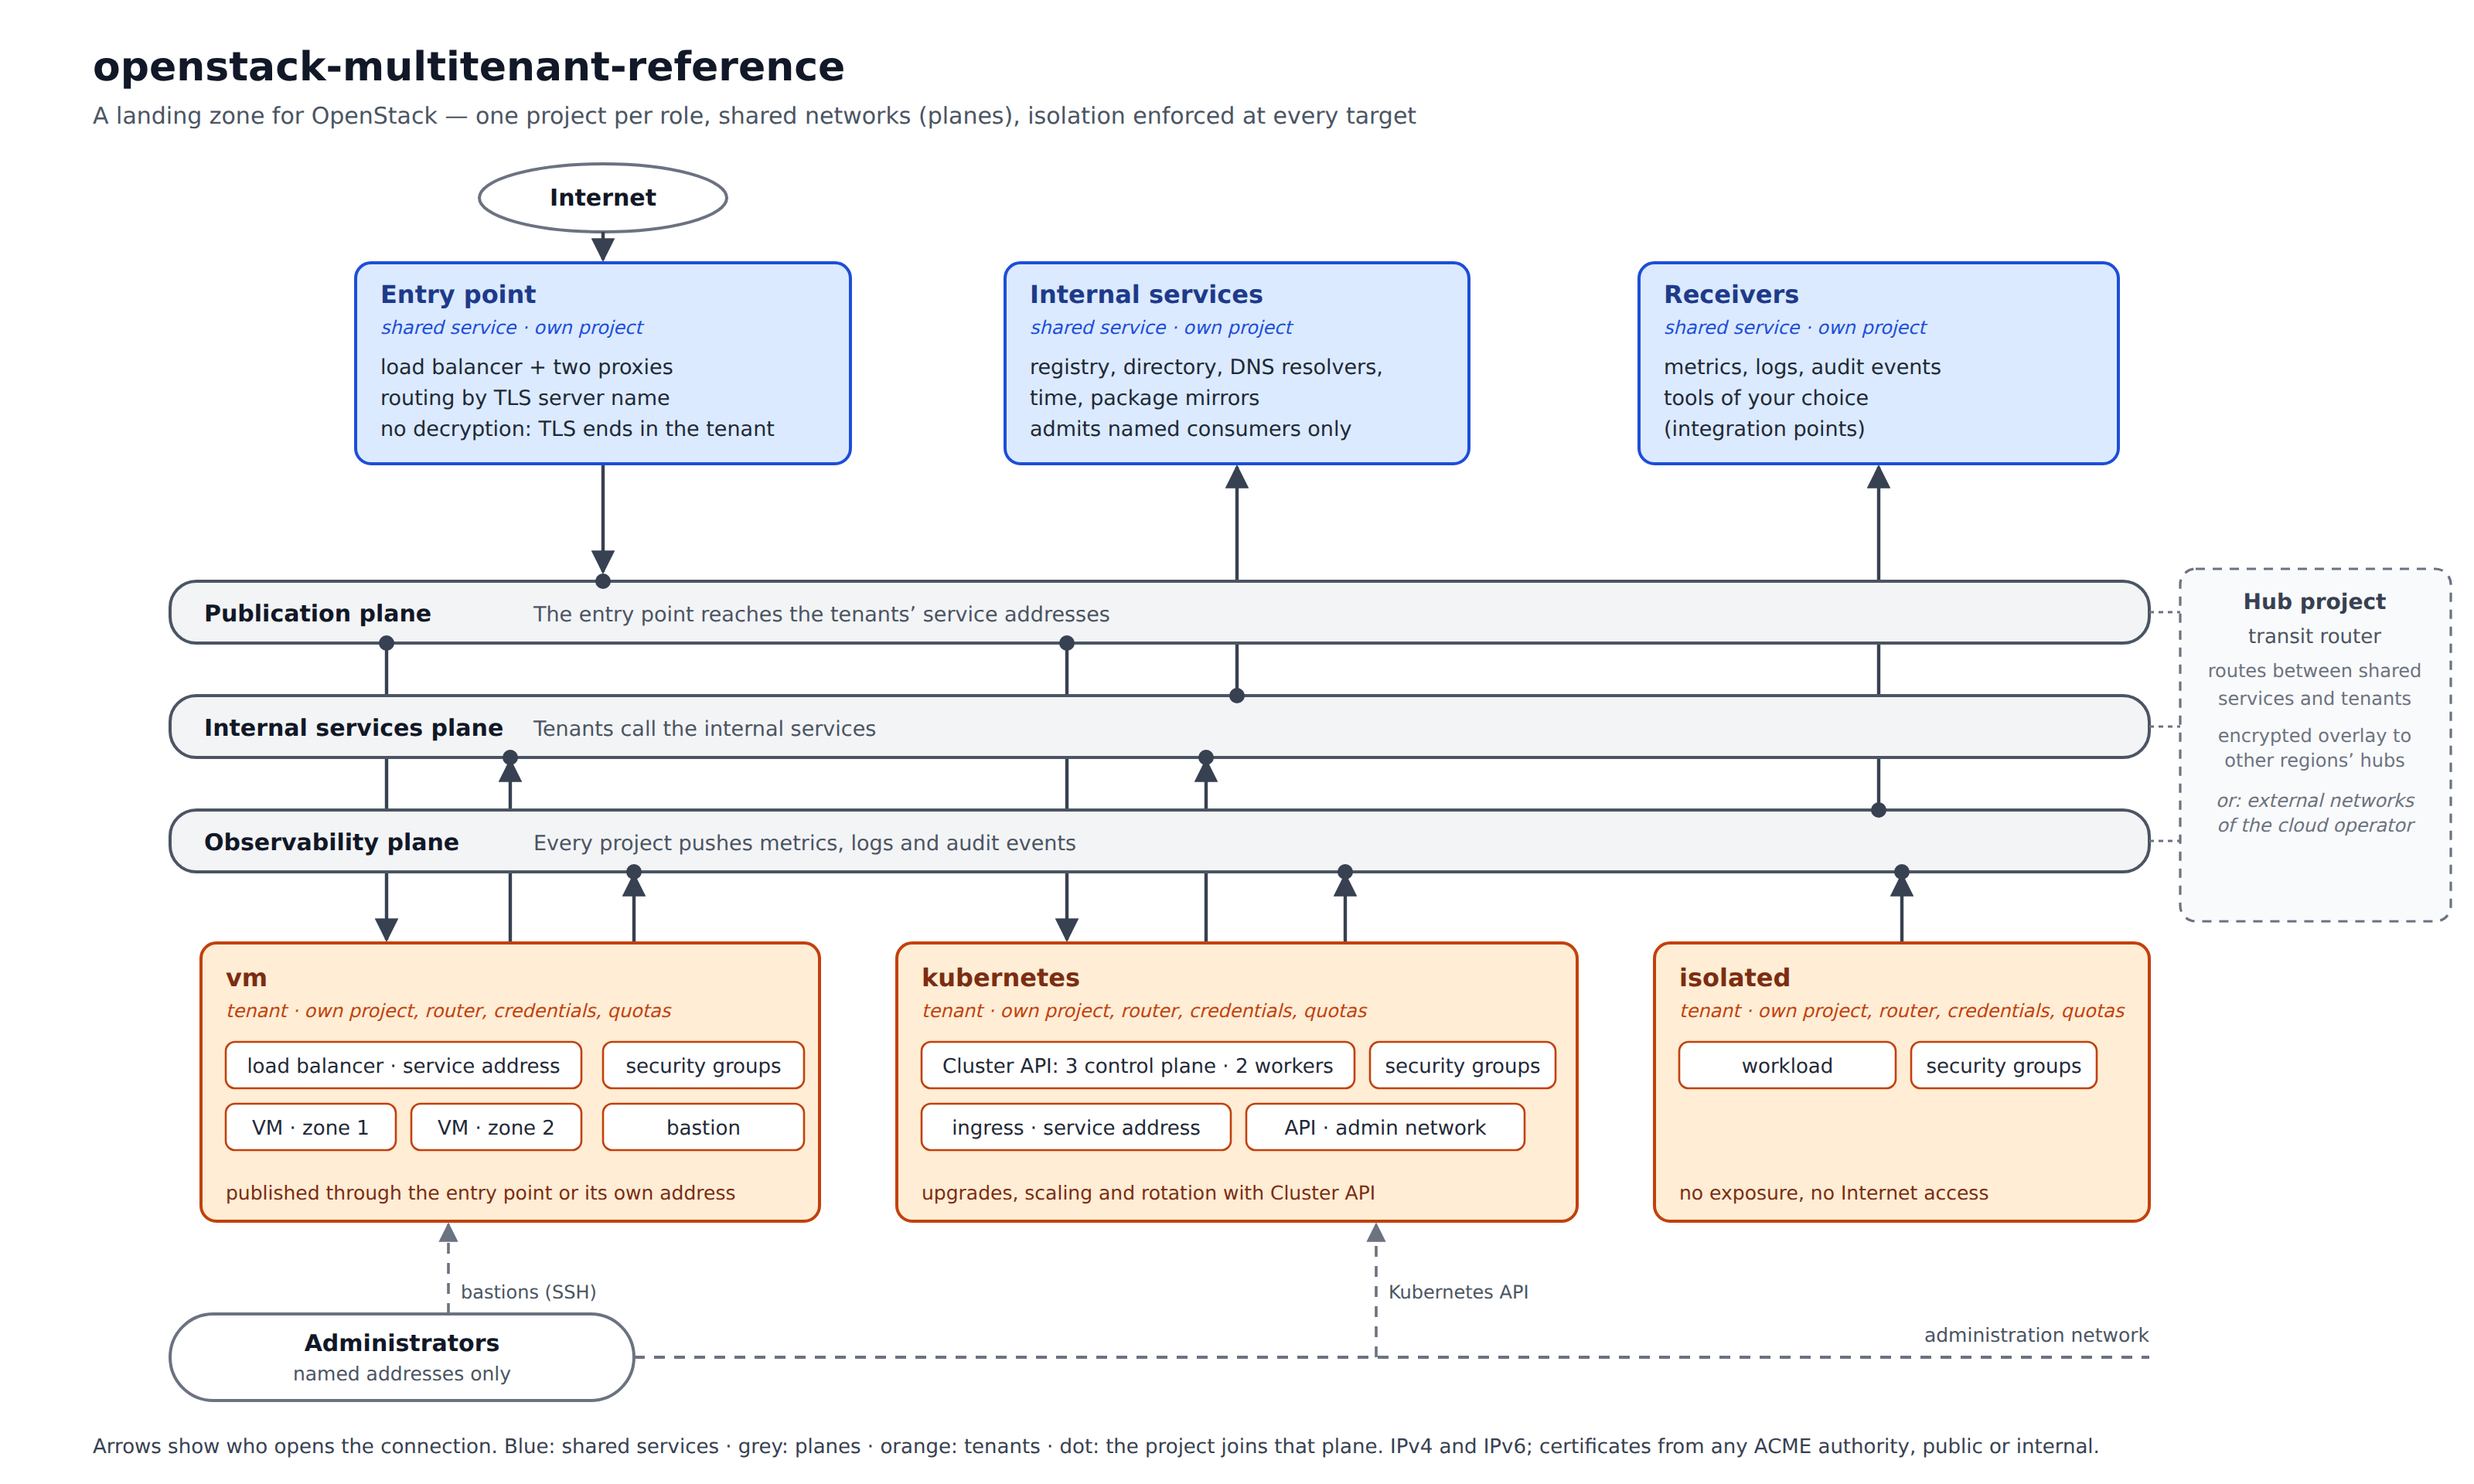
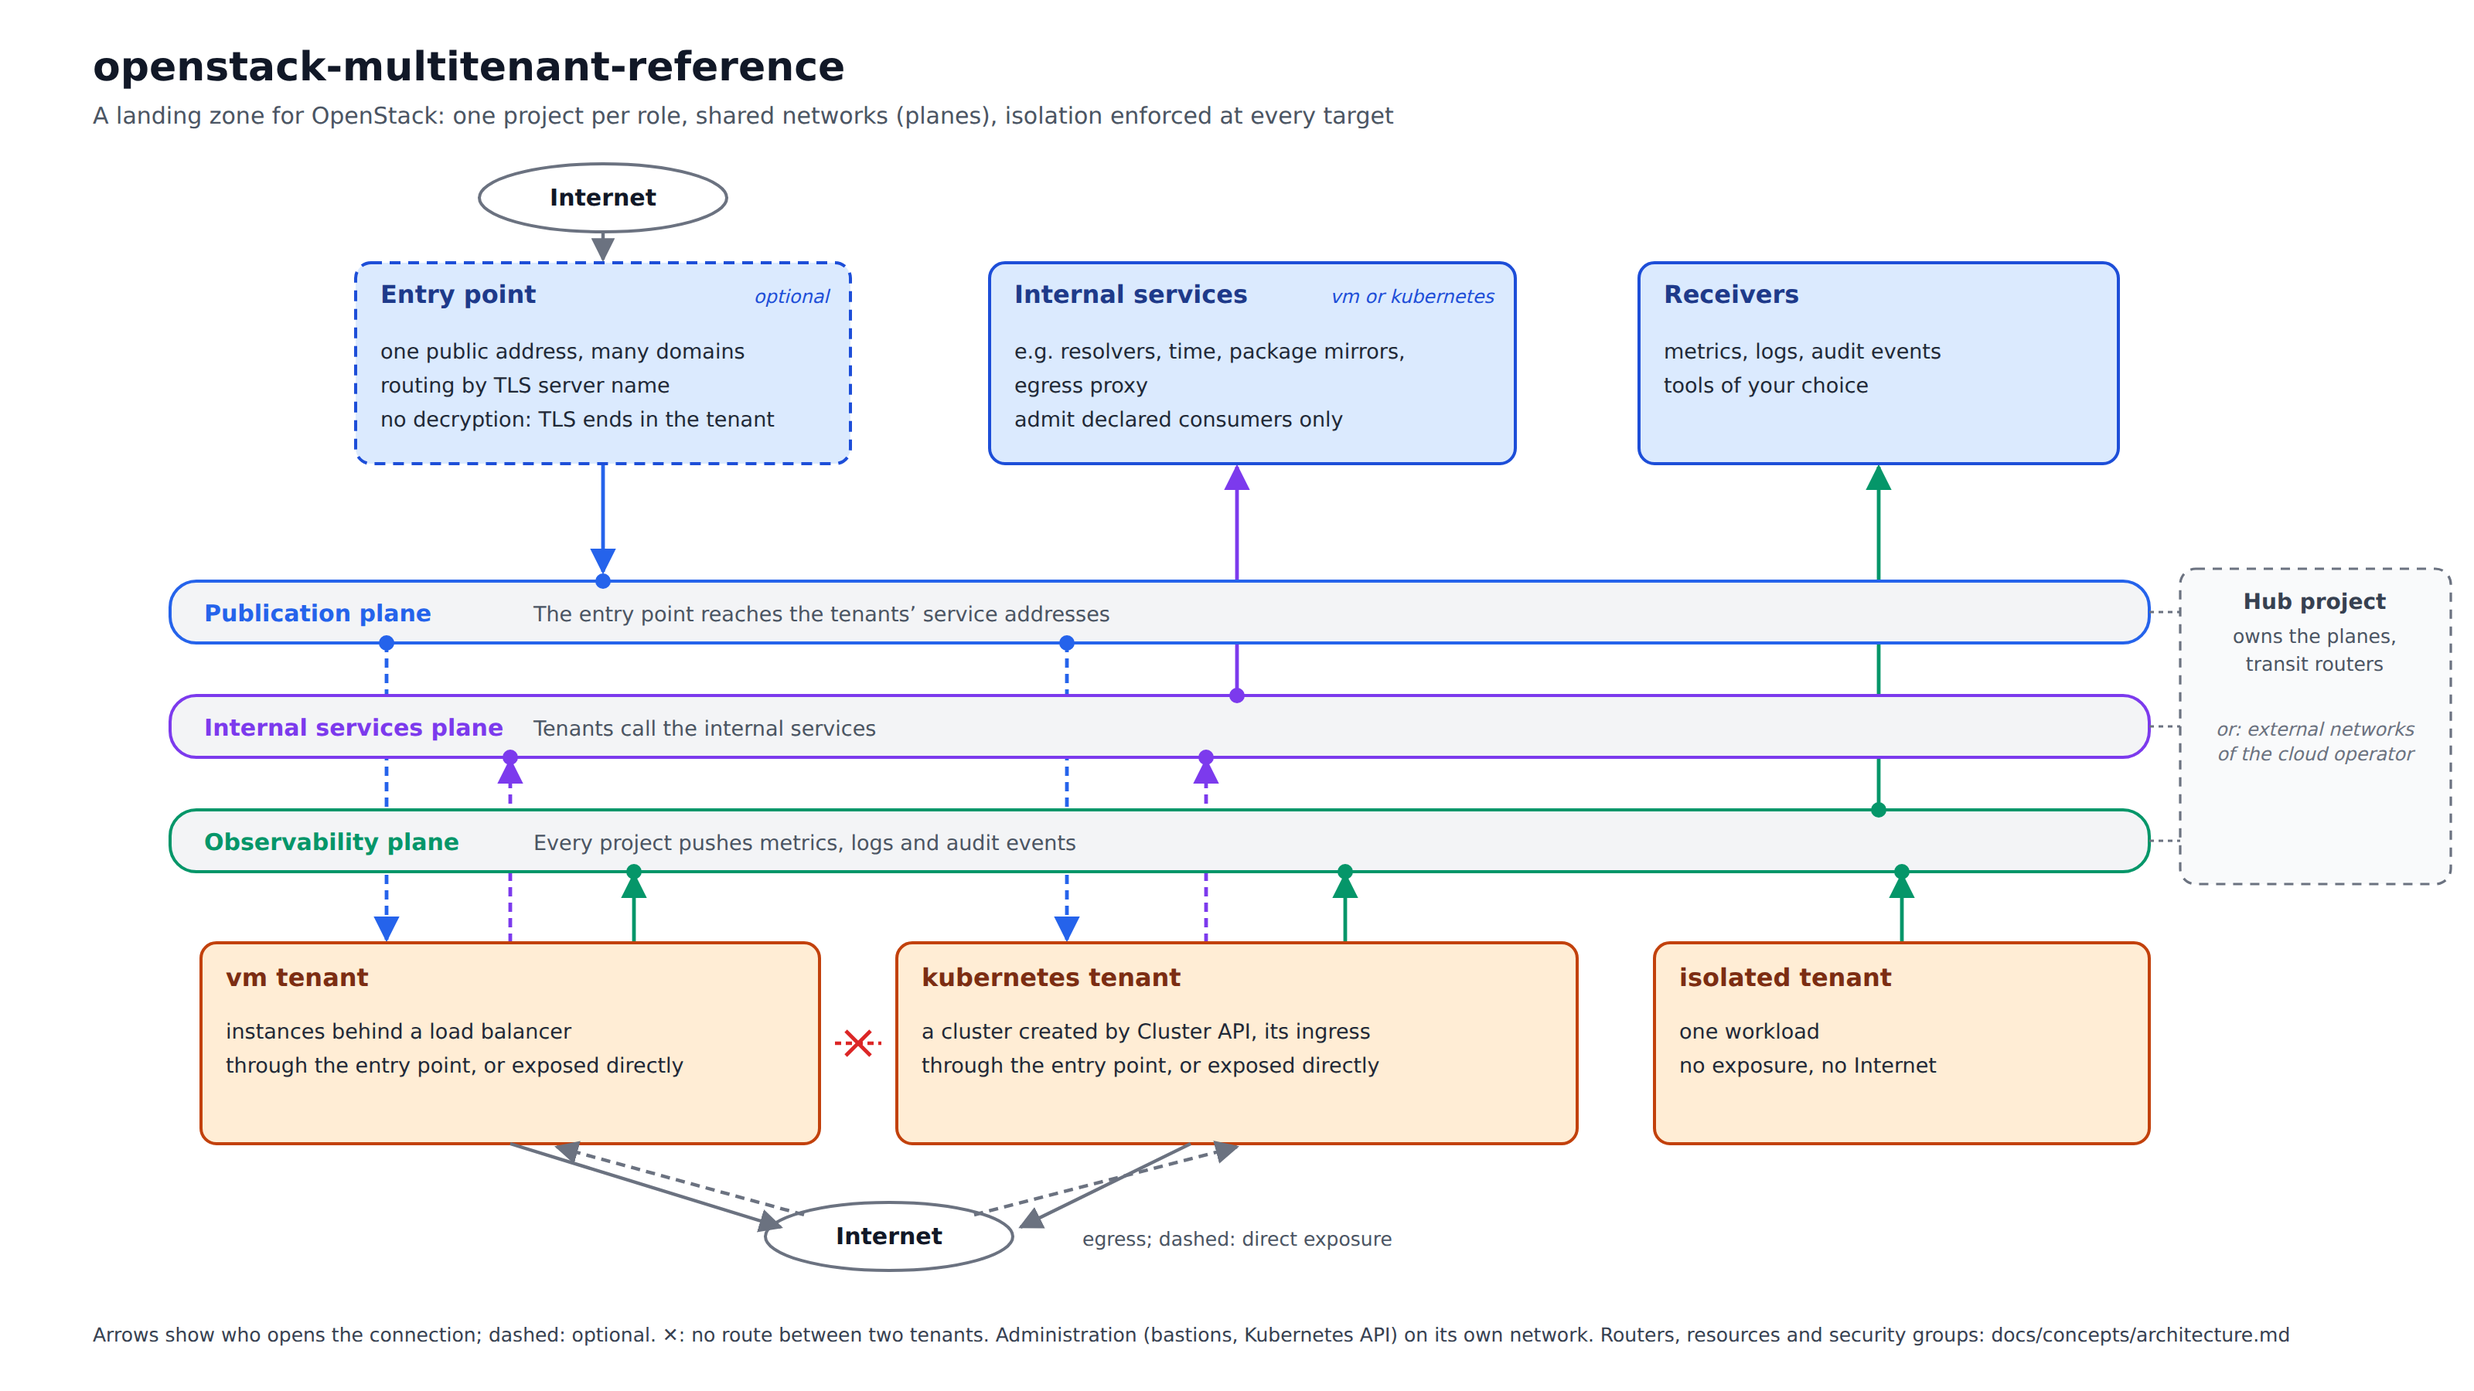
README overview and what the example shows
- Getting started: what the example shows
- Diagrams: one level of detail each

Assisted-by: Claude

diff --git a/docs/getting-started/README.md b/docs/getting-started/README.md
@@ -18,6 +18,22 @@ flowchart LR
 
 About 20 minutes with the entry point and a `vm` tenant; add about 20 minutes for a Kubernetes tenant, plus 25 minutes once for its node image. Every stack follows the same pattern: copy `terraform.tfvars.example` to `terraform.tfvars` (git-ignored), adapt it, add its `plane_attachment`, then `tofu init && tofu apply` (`terraform` works the same).
 
+## What the example shows
+
+The stacks with their example values, and the test fixtures, deploy one instance of each choice. Keep what you need; each row says where the choice is made.
+
+| Area | The example shows | Where |
+|---|---|---|
+| Planes | the cloud operator's external networks, or shared networks built in a hub project with transit routers; addresses translated or not | step 1, [`examples/planes`](../../examples/planes/README.md) |
+| Exposure | a `vm` and a `kubernetes` tenant behind the shared entry point; each may instead have its own public address (`exposure = "public"`) | steps 3 and 4 |
+| Isolation | no route between two tenants; an `isolated` tenant with no exposure and no way out but the observability plane | step 4, [isolation matrix](../reference/isolation-matrix.md) |
+| Internal services | a service open to declared consumers only ([fixture](../../tests/fixtures/internal-service/README.md)), and a [cluster for shared services](../../stacks/shared/kubernetes/README.md) | after step 4 |
+| Observability | every project pushes its metrics to one receiver ([fixture](../../tests/fixtures/receiver/README.md)) | step 2 |
+| Certificates | ACME DNS-01 from an internal authority ([fixture](../../tests/fixtures/acme/README.md)); without it, a self-signed demonstration mode | `certificates` of each tenant |
+| Administration | bastions, and the Kubernetes API and bootstrap instance on an administration network | `admin`, `admin_network` |
+
+The fixtures stand for your own receivers, internal services and certificate authority: they are there to test the contracts, not to run in production.
+
 ## 0. Projects
 
 - OpenTofu or Terraform ≥ 1.9, `jq`, Python 3, `ssh` and the `openstack` client.
@@ -60,7 +76,7 @@ tofu -chdir=stacks/shared/entry-point output -json publication_sources   # edge_
 
 ## 4. Tenants
 
-Independent of each other, each in its own project, with its `plane_attachment` and `monitoring.receiver`; the tenants published through the entry point (`vm`, `kubernetes`) also take its `edge_sources`. A `vm` tenant may instead expose itself with its own public address (`exposure = "public"`). From the root of the repository:
+Independent of each other, each in its own project, with its `plane_attachment` and `monitoring.receiver`; the tenants published through the entry point (`vm`, `kubernetes`) also take its `edge_sources`. A `vm` or `kubernetes` tenant may instead expose itself with its own public address (`exposure = "public"`). From the root of the repository:
 
 ```bash
 for t in vm isolated; do

diff --git a/docs/concepts/architecture.md b/docs/concepts/architecture.md
@@ -14,9 +14,9 @@ Your projects on an OpenStack cloud, **one project per role** ([ADR-0003](../adr
 | observability | every project pushes its metrics, logs and audit events | your receivers |
 | internal services | services offered to some tenants | your internal services (registry, directory…) |
 
-![Architecture: the optional entry point, the receivers and the internal services each in their own project, the tenants in theirs, the hub project owning the planes; every project joins the publication, internal services and observability planes through its own router, with the role shared or tenant; arrows show who opens each connection; security groups on the ports of instances and load balancers; no route between two tenants](../images/architecture-topology.png)
+![Architecture: the optional entry point, the receivers and the internal services each in their own project, the tenants in theirs, the hub project owning the planes; every project joins the publication, internal services and observability planes through its own router, with the role shared or tenant; arrows show who opens each connection; no route between two tenants](../images/architecture-topology.png)
 
-The source of this picture is the SVG next to the PNG in [`docs/images`](../images/). The entry point is optional: a tenant may expose its own load balancer with a public address ([ADR-0006](../adr/0006-exposure.md), D2).
+The source of this picture is the SVG next to the PNG in [`docs/images`](../images/). The entry point is optional: a tenant may expose its own load balancer with a public address ([ADR-0006](../adr/0006-exposure.md), D2). Who admits what on each target: the [isolation matrix](../reference/isolation-matrix.md).
 
 | Project | Planes | Content |
 |---|---|---|
